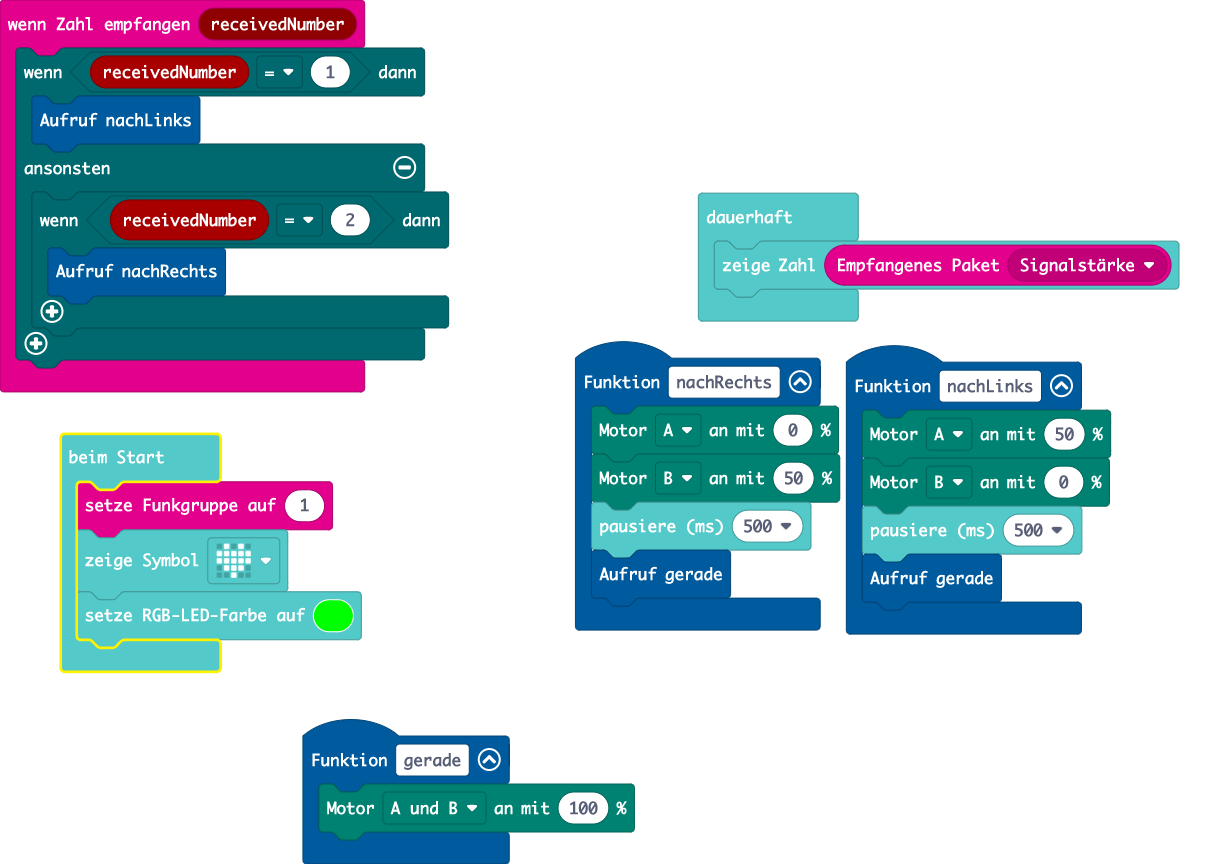
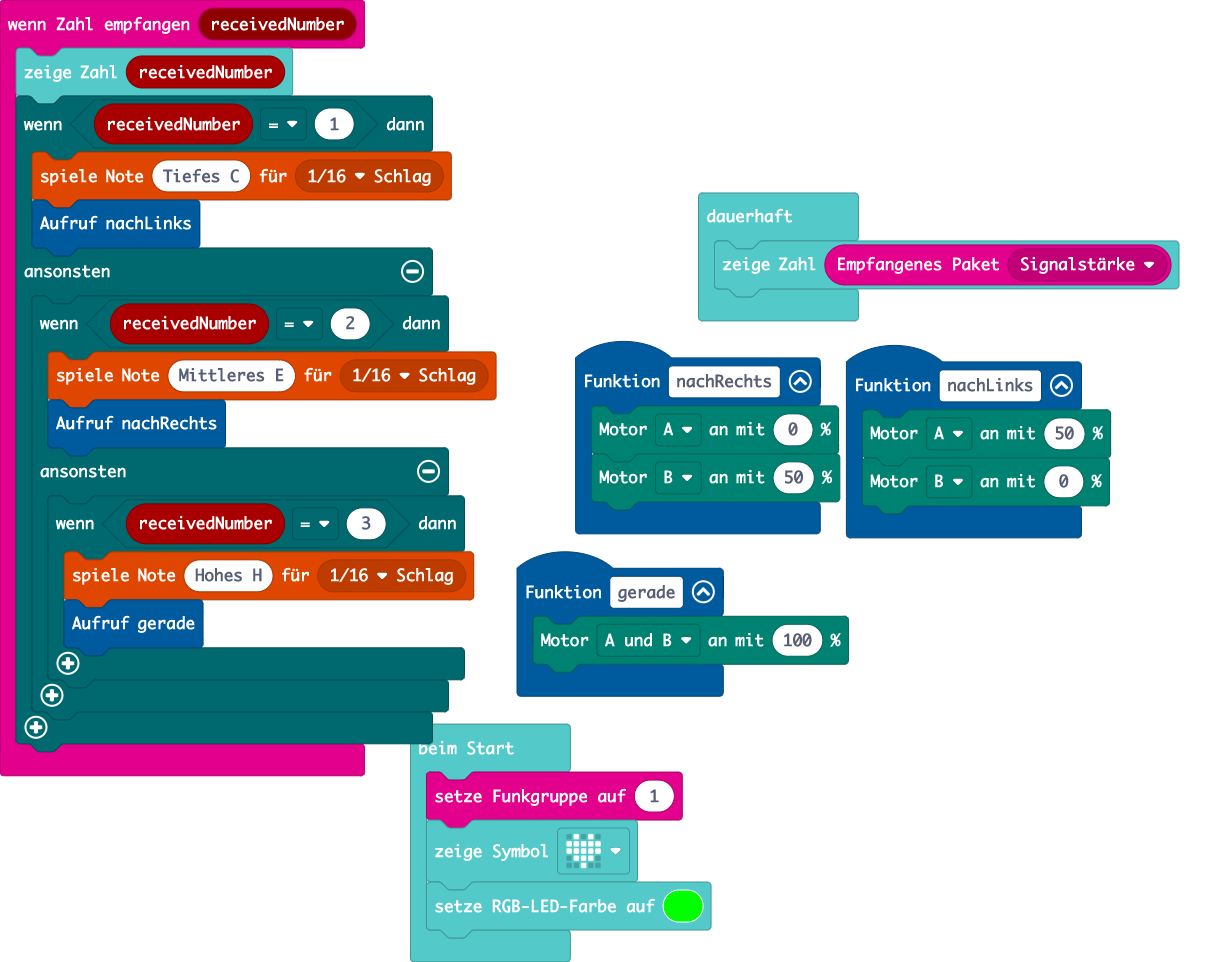
Aktualisiere main.blocks, main.ts

diff --git a/main.ts b/main.ts
@@ -1,9 +1,17 @@
 radio.onReceivedNumber(function (receivedNumber) {
+    basic.showNumber(receivedNumber)
     if (receivedNumber == 1) {
+        music.playTone(131, music.beat(BeatFraction.Sixteenth))
         nachLinks()
     } else {
         if (receivedNumber == 2) {
+            music.playTone(330, music.beat(BeatFraction.Sixteenth))
             nachRechts()
+        } else {
+            if (receivedNumber == 3) {
+                music.playTone(988, music.beat(BeatFraction.Sixteenth))
+                gerade()
+            }
         }
     }
 })
@@ -13,14 +21,10 @@ function gerade () {
 function nachLinks () {
     motors.dualMotorPower(Motor.A, 50)
     motors.dualMotorPower(Motor.B, 0)
-    basic.pause(500)
-    gerade()
 }
 function nachRechts () {
     motors.dualMotorPower(Motor.A, 0)
     motors.dualMotorPower(Motor.B, 50)
-    basic.pause(500)
-    gerade()
 }
 radio.setGroup(1)
 basic.showIcon(IconNames.Heart)
